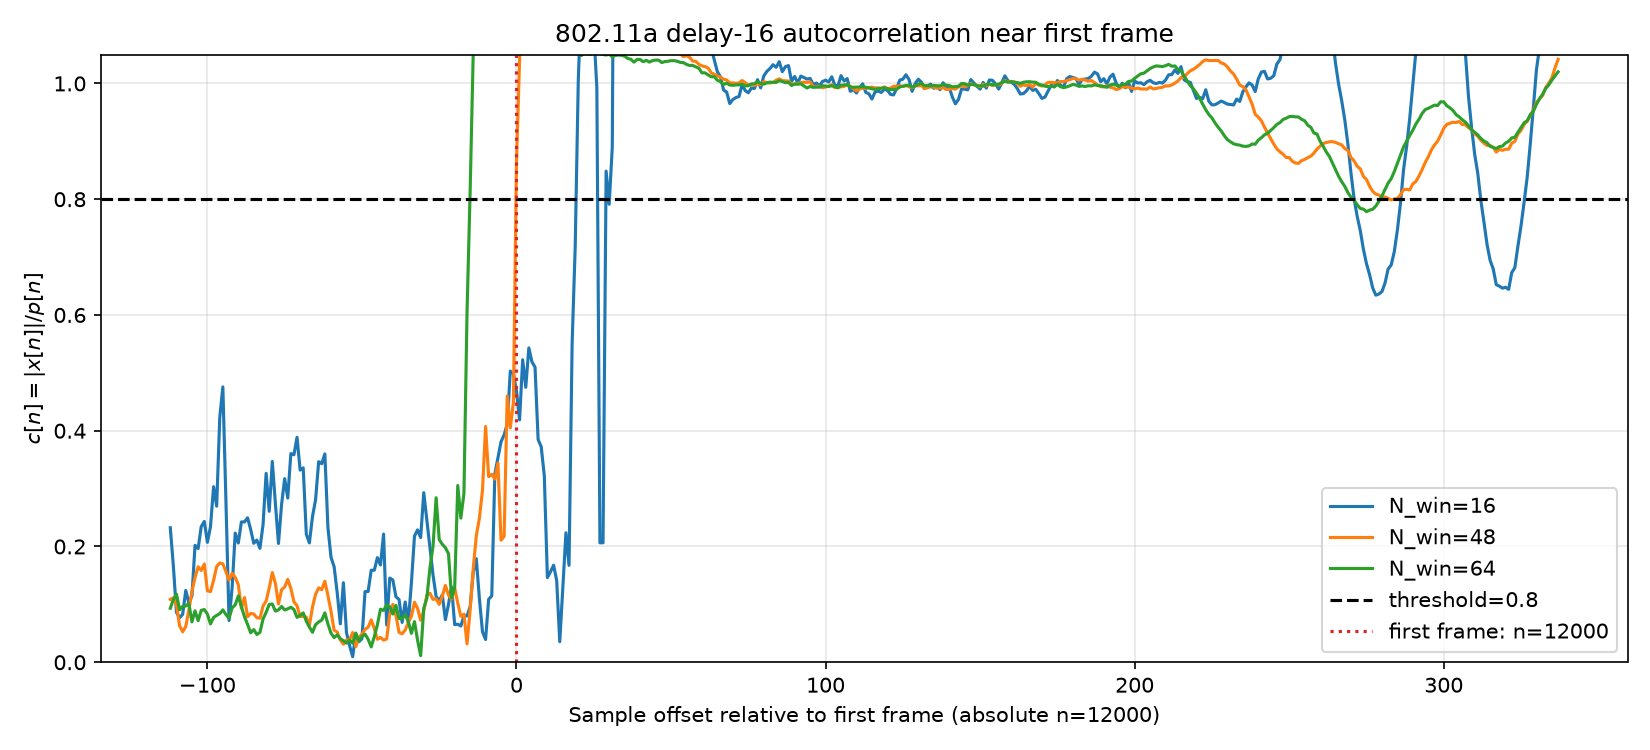
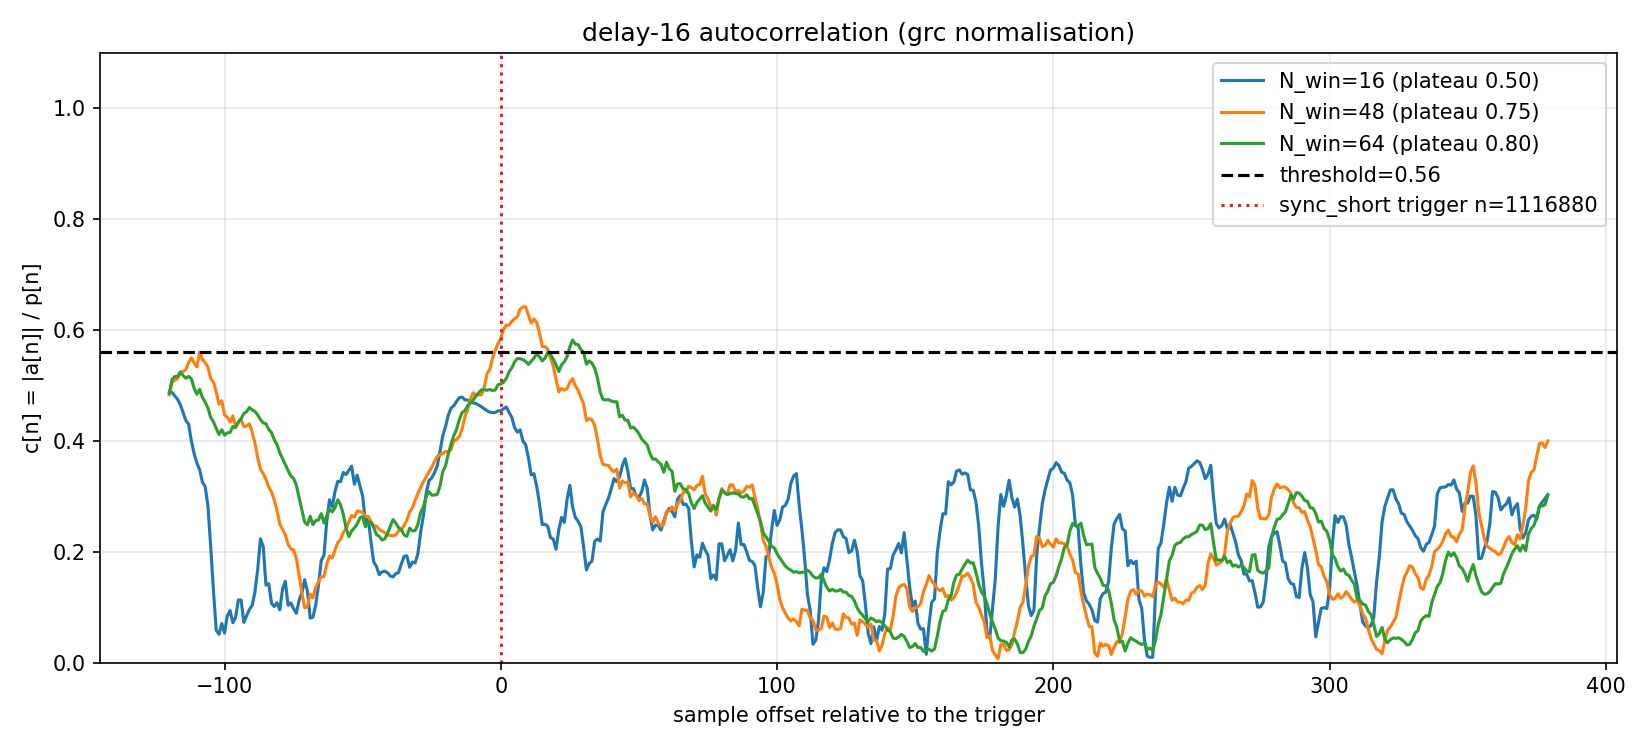
docs: update Figure 2 and fix broken GitHub links to untracked files

diff --git a/scripts/plot_autocorrelation.py b/scripts/plot_autocorrelation.py
@@ -1,162 +1,37 @@
 #!/usr/bin/env python3
-"""Plot a zoomed delay-16 autocorrelation around the first detected frame."""
+"""Figure 2 of the paper: delay-16 autocorrelation coefficient c[n] around a sync_short trigger.
 
-from __future__ import annotations
-
+--power-window grc   : p[n] over N_win+16 samples, as in wifi_phy_hier.py  (plateau = N/(N+16) = 0.75 for N=48)
+--power-window paper : p[n] over N_win samples, as in Eq. (2)             (plateau ~ 1)
+  python3 scripts/plot_autocorrelation.py recordings/X.bin --trigger 123456
+"""
 import argparse
 from pathlib import Path
-
 import matplotlib.pyplot as plt
 import numpy as np
+from sdr80211 import *
 
+ap = argparse.ArgumentParser(description=__doc__, formatter_class=argparse.RawDescriptionHelpFormatter)
+ap.add_argument("recording", type=Path)
+ap.add_argument("--trigger", type=int, required=True)
+ap.add_argument("--window", type=int, nargs="+", default=[16, 48, 64])
+ap.add_argument("--power-window", choices=["grc", "paper"], default="grc")
+ap.add_argument("--threshold", type=float, default=0.56)
+ap.add_argument("--before", type=int, default=120)
+ap.add_argument("--after", type=int, default=380)
+ap.add_argument("--output", type=Path, default=Path("wiki/figura2_autocorrelacao.png"))
+a = ap.parse_args()
 
-DELAY = 16
-DEFAULT_THRESHOLD = 0.8
-DEFAULT_READ_SAMPLES = 500_000
-ZOOM_SAMPLES = 450
-PLATEAU_SAMPLES = 4
-
-
-def autocorrelation(samples: np.ndarray, window: int) -> tuple[np.ndarray, np.ndarray]:
-    """Return |x[n]|/p[n] and |x[n]| for every valid window."""
-    if window <= 0:
-        raise ValueError("N_win must be positive")
-    count = samples.size - DELAY - window + 1
-    if count <= 0:
-        raise ValueError(
-            f"recording has {samples.size} samples; need more than "
-            f"{DELAY + window - 1}"
-        )
-
-    products = samples[:-DELAY] * np.conj(samples[DELAY:])
-    powers = np.abs(samples) ** 2
-    correlation = np.convolve(products, np.ones(window), mode="valid")
-    power = np.convolve(powers, np.ones(window), mode="valid")[:count]
-    coefficient = np.divide(
-        np.abs(correlation[:count]),
-        power,
-        out=np.zeros(count, dtype=np.float64),
-        where=power > np.finfo(np.float64).eps,
-    )
-    return coefficient, np.abs(correlation[:count])
-
-
-def read_iq(path: Path, max_samples: int | None) -> np.ndarray:
-    """Read interleaved float32 I,Q values as complex64 samples."""
-    samples = np.fromfile(path, dtype=np.complex64, count=-1 if max_samples is None else max_samples)
-    if samples.size == 0:
-        raise ValueError(f"recording is empty or unreadable: {path}")
-    return samples
-
-
-def first_sustained_crossing(
-    coefficient: np.ndarray, threshold: float, plateau: int
-) -> int | None:
-    """Return the first index with ``plateau`` consecutive threshold hits."""
-    above = coefficient >= threshold
-    runs = np.convolve(above.astype(np.int8), np.ones(plateau, dtype=np.int8), "valid")
-    hits = np.flatnonzero(runs == plateau)
-    return int(hits[0]) if hits.size else None
-
-
-def main() -> None:
-    parser = argparse.ArgumentParser(description=__doc__)
-    parser.add_argument(
-        "recording",
-        nargs="?",
-        type=Path,
-        help="complex64 recording; defaults to the first *.bin in recordings/",
-    )
-    parser.add_argument(
-        "--window",
-        type=int,
-        nargs="+",
-        default=[16, 48, 64],
-        help="one or more N_win values (default: 16 48 64)",
-    )
-    parser.add_argument("--threshold", type=float, default=DEFAULT_THRESHOLD)
-    parser.add_argument(
-        "--output",
-        type=Path,
-        default=Path("wiki/figura2_autocorrelacao.png"),
-    )
-    parser.add_argument(
-        "--zoom-samples",
-        type=int,
-        default=ZOOM_SAMPLES,
-        help="number of samples shown around the first crossing",
-    )
-    parser.add_argument(
-        "--plateau",
-        type=int,
-        default=PLATEAU_SAMPLES,
-        help="consecutive threshold hits required for detection",
-    )
-    parser.add_argument(
-        "--max-samples",
-        type=int,
-        default=DEFAULT_READ_SAMPLES,
-        help="optional limit, useful for quick experiments with large recordings",
-    )
-    args = parser.parse_args()
-
-    recording = args.recording
-    if recording is None:
-        candidates = sorted(Path("recordings").glob("*.bin"))
-        if not candidates:
-            parser.error("no recording supplied and recordings/*.bin was not found")
-        recording = candidates[0]
-    if not recording.is_file():
-        parser.error(f"recording not found: {recording}")
-    if any(window <= 0 for window in args.window):
-        parser.error("--window values must be positive")
-    if args.zoom_samples <= 0 or args.plateau <= 0:
-        parser.error("--zoom-samples and --plateau must be positive")
-    if not 0 <= args.threshold:
-        parser.error("--threshold must be non-negative")
-
-    samples = read_iq(recording, args.max_samples)
-    coefficients: dict[int, np.ndarray] = {}
-    for window in args.window:
-        coefficients[window], _ = autocorrelation(samples, window)
-
-    detection_window = 48 if 48 in coefficients else args.window[0]
-    event = first_sustained_crossing(
-        coefficients[detection_window], args.threshold, args.plateau
-    )
-    if event is None:
-        event = int(np.argmax(coefficients[detection_window]))
-        print(
-            f"warning: no sustained threshold crossing; using maximum at sample {event}"
-        )
-
-    start = max(0, event - args.zoom_samples // 4)
-    stop = min(len(coefficients[detection_window]), start + args.zoom_samples)
-    start = max(0, stop - args.zoom_samples)
-    x = np.arange(start, stop) - event
-
-    figure, axis = plt.subplots(figsize=(11, 5))
-    for window, coefficient in coefficients.items():
-        axis.plot(x, coefficient[start:stop], label=f"N_win={window}")
-
-    axis.axhline(
-        args.threshold,
-        color="black",
-        linestyle="--",
-        label=f"threshold={args.threshold:g}",
-    )
-    axis.axvline(0, color="tab:red", linestyle=":", label=f"first frame: n={event}")
-    axis.set_title(f"802.11a delay-{DELAY} autocorrelation near first frame")
-    axis.set_xlabel(f"Sample offset relative to first frame (absolute n={event})")
-    axis.set_ylabel(r"$c[n] = |x[n]| / p[n]$")
-    axis.set_ylim(0, 1.05)
-    axis.grid(True, alpha=0.3)
-    axis.legend()
-    figure.tight_layout()
-    args.output.parent.mkdir(parents=True, exist_ok=True)
-    figure.savefig(args.output, dpi=150)
-    print(f"saved {args.output} ({samples.size} samples, zoom n={start}:{stop})")
-
-
-if __name__ == "__main__":
-    main()
+lo = max(0, a.trigger - a.before - 300)
+x = read_iq(a.recording, lo, a.trigger - lo + a.after + 100)
+rel = np.arange(-a.before, a.after)
+fig, ax = plt.subplots(figsize=(11, 5))
+for N in a.window:
+    c, _ = graph_metric(x, N, None if a.power_window == "grc" else N)
+    idx = a.trigger - lo + rel
+    ax.plot(rel, c[idx], label=f"N_win={N}" + (f" (plateau {N/(N+16):.2f})" if a.power_window == "grc" else ""))
+ax.axhline(a.threshold, color="k", ls="--", label=f"threshold={a.threshold:g}")
+ax.axvline(0, color="tab:red", ls=":", label=f"sync_short trigger n={a.trigger}")
+ax.set_xlabel("sample offset relative to the trigger"); ax.set_ylabel("c[n] = |a[n]| / p[n]"); ax.set_ylim(0, 1.1)
+ax.set_title(f"delay-16 autocorrelation ({a.power_window} normalisation)"); ax.grid(alpha=.3); ax.legend(); fig.tight_layout()
+a.output.parent.mkdir(parents=True, exist_ok=True); fig.savefig(a.output, dpi=150); print("saved", a.output)

diff --git a/wiki/04_equalizacao_e_fase.md b/wiki/04_equalizacao_e_fase.md
@@ -14,7 +14,7 @@ Vector*" pertence à Week 4 (§5 de [`03_sync_long_alinhamento.md`](03_sync_long
 ## 0. Onde este bloco fica no fluxo
 
 `sync_long` (sem CP) → `Stream to Vector (64)` → `FFT 64` → **`frame_equalizer`** → `decode_mac`.
-No [`wifi_phy_hier.py`](../wifi_phy_hier.py) a FFT é `fft.fft_vcc(64, True, window.rectangular(64), True, 1)`:
+No `wifi_phy_hier.py` a FFT é `fft.fft_vcc(64, True, window.rectangular(64), True, 1)`:
 direta, janela retangular e `shift=True`, portanto o DC fica no índice 32 e
 `i − 32` é o índice de subportadora (−32…+31). O `frame_equalizer` recebe itens de
 `64 × complex` e produz itens de **48 bytes** (`frame_equalizer_impl.cc:41-42`), um por

diff --git a/wiki/02_sync_short_analise.md b/wiki/02_sync_short_analise.md
@@ -1,6 +1,6 @@
 # Análise do OFDM Sync Short (Week 2)
 
-Fonte analisada: [`gr-ieee802-11/lib/sync_short.cc`](../gr-ieee802-11/lib/sync_short.cc) (commit `ad0598e`;
+Fonte analisada: `gr-ieee802-11/lib/sync_short.cc` (commit `ad0598e`;
 as linhas citadas são desse ficheiro). O cálculo do coeficiente de correlação está descrito em
 [01_parametros_ofdm.md](01_parametros_ofdm.md) §5. Os números desta página vêm de um porte em Python
 do bloco (`scripts/sdr80211.py`), conferido com os blocos reais (o CFO medido pelo porte, 23,4 kHz,
